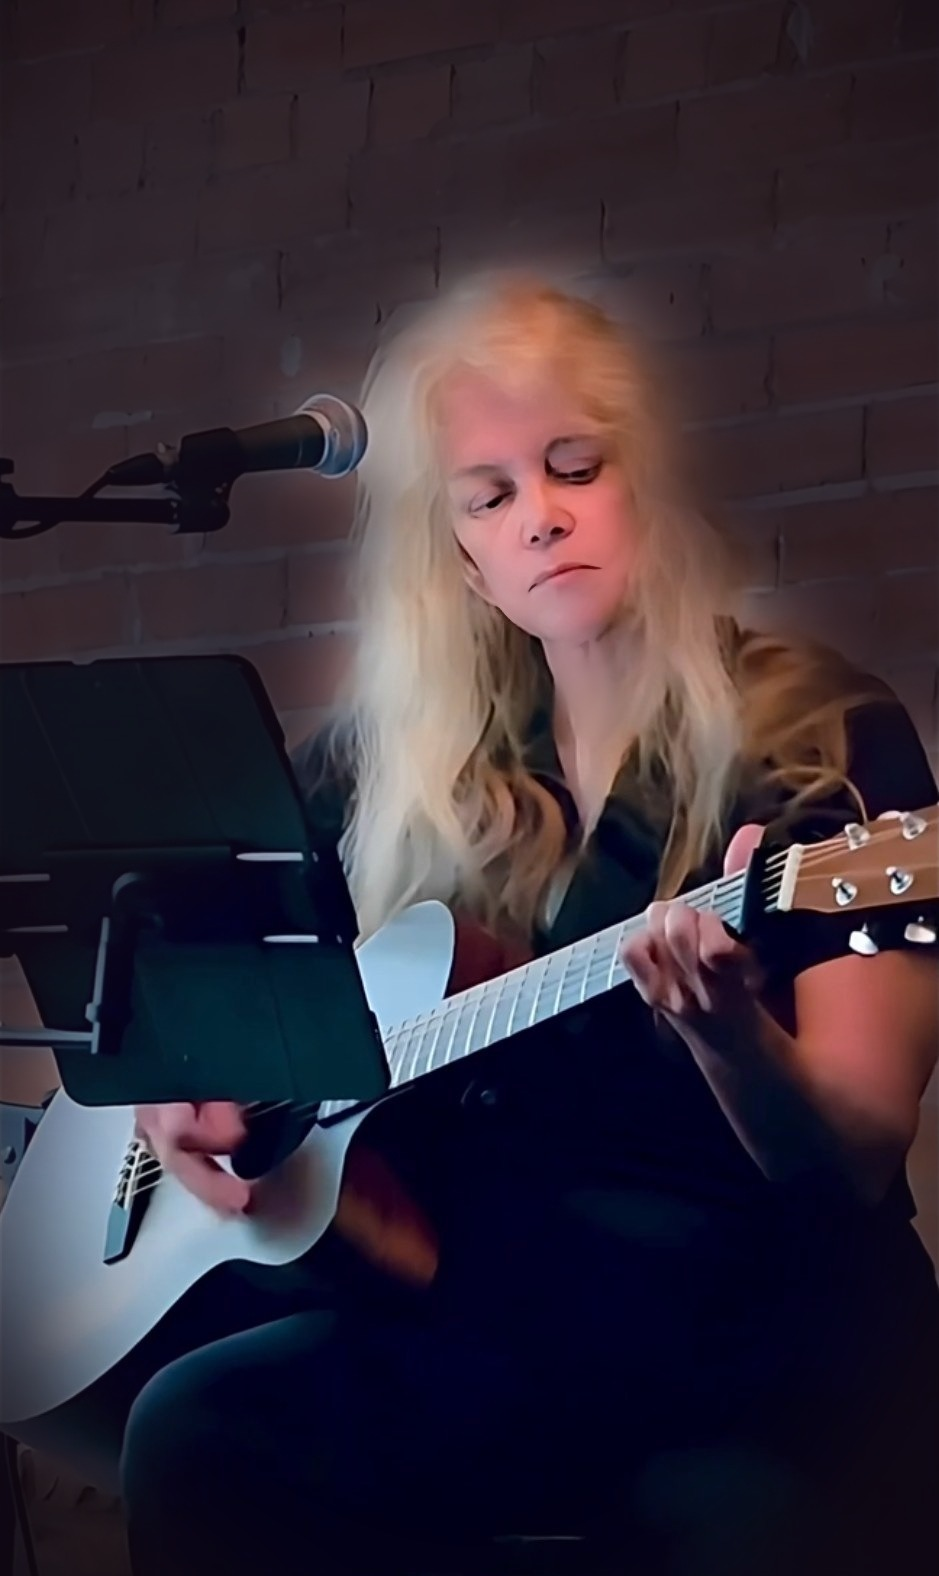
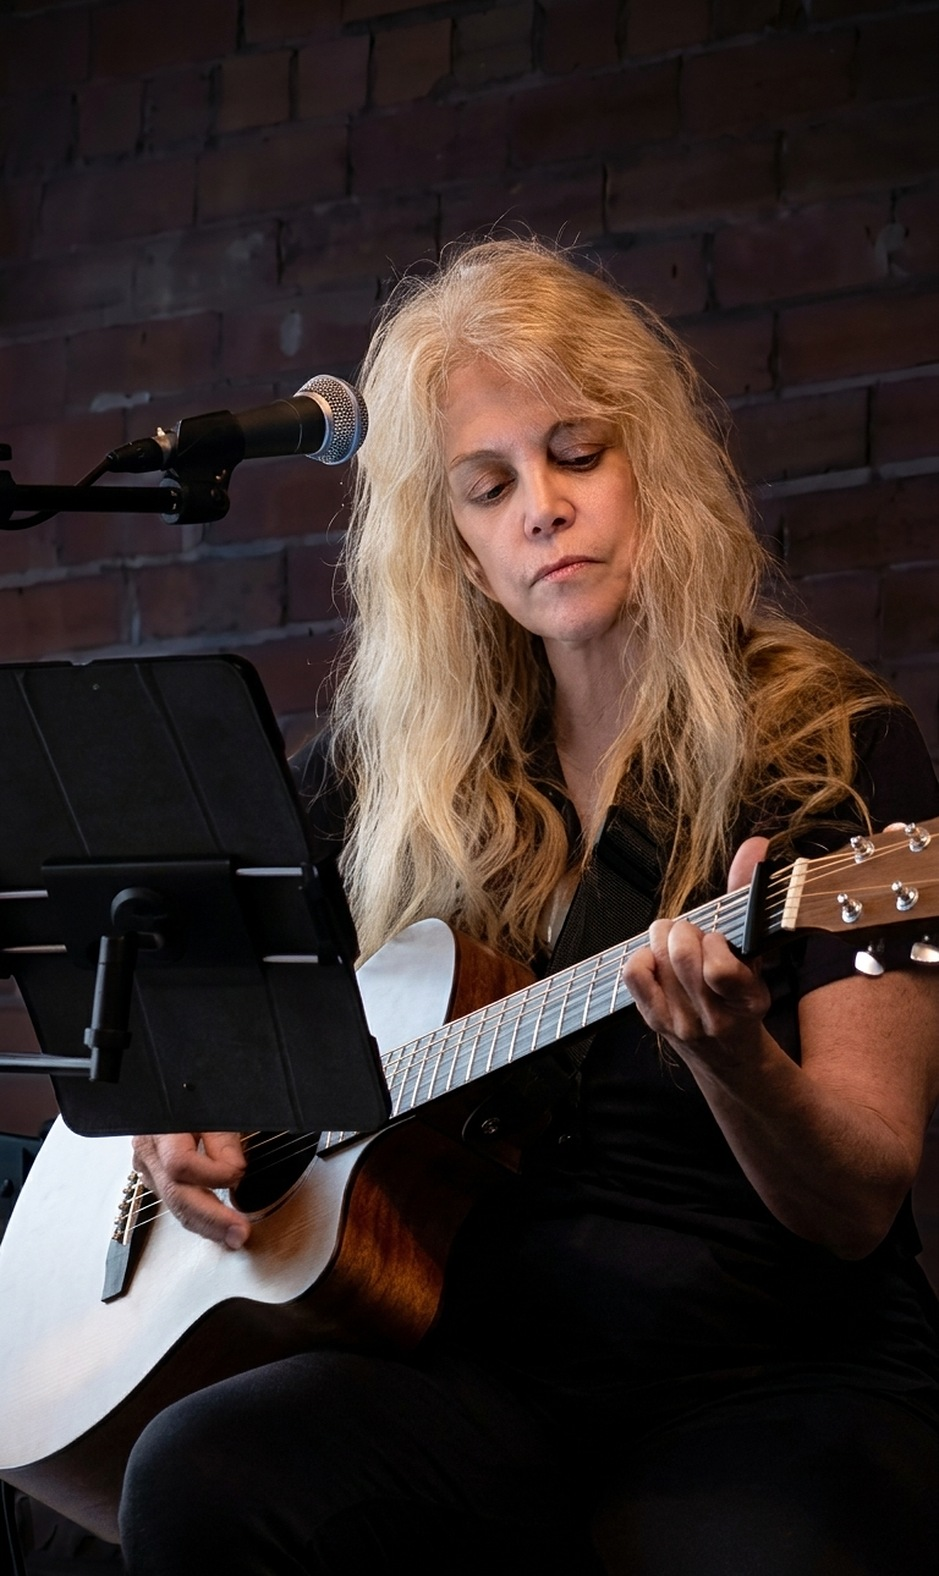
Restore sharp hair strand detail in retouched evening-stage hero portrait

diff --git a/index.html b/index.html
@@ -29,8 +29,8 @@
   <link rel="preconnect" href="https://fonts.googleapis.com">
   <link rel="preconnect" href="https://fonts.gstatic.com" crossorigin>
   <link rel="stylesheet" href="https://fonts.googleapis.com/css2?family=Karla:wght@400;500;600;700;800&family=Plus+Jakarta+Sans:wght@600;700;800&display=swap">
-  <link rel="stylesheet" href="styles.css?v=20261102ac">
-  <script defer src="site.js?v=20261102ac"></script>
+  <link rel="stylesheet" href="styles.css?v=20261102ad">
+  <script defer src="site.js?v=20261102ad"></script>
   <script type="application/ld+json">
   {
     "@context": "https://schema.org",
@@ -72,7 +72,7 @@
 
   <main id="main">
     <section class="hero" id="home" aria-labelledby="hero-title">
-      <img class="hero-photo" src="images/hero-guitar.jpg?v=20261102ac" alt="Reb Yen singing and playing acoustic guitar" width="939" height="1576" fetchpriority="high">
+      <img class="hero-photo" src="images/hero-guitar.jpg?v=20261102ad" alt="Reb Yen singing and playing acoustic guitar" width="939" height="1576" fetchpriority="high">
       <div class="container">
         <div class="hero-content">
           <h1 id="hero-title">Reb Yen</h1>

diff --git a/thanks.html b/thanks.html
@@ -29,8 +29,8 @@
   <link rel="preconnect" href="https://fonts.googleapis.com">
   <link rel="preconnect" href="https://fonts.gstatic.com" crossorigin>
   <link rel="stylesheet" href="https://fonts.googleapis.com/css2?family=Karla:wght@400;500;600;700;800&family=Plus+Jakarta+Sans:wght@600;700;800&display=swap">
-  <link rel="stylesheet" href="styles.css?v=20261102ac">
-  <script defer src="site.js?v=20261102ac"></script>
+  <link rel="stylesheet" href="styles.css?v=20261102ad">
+  <script defer src="site.js?v=20261102ad"></script>
   <script type="application/ld+json">
   {
     "@context": "https://schema.org",
